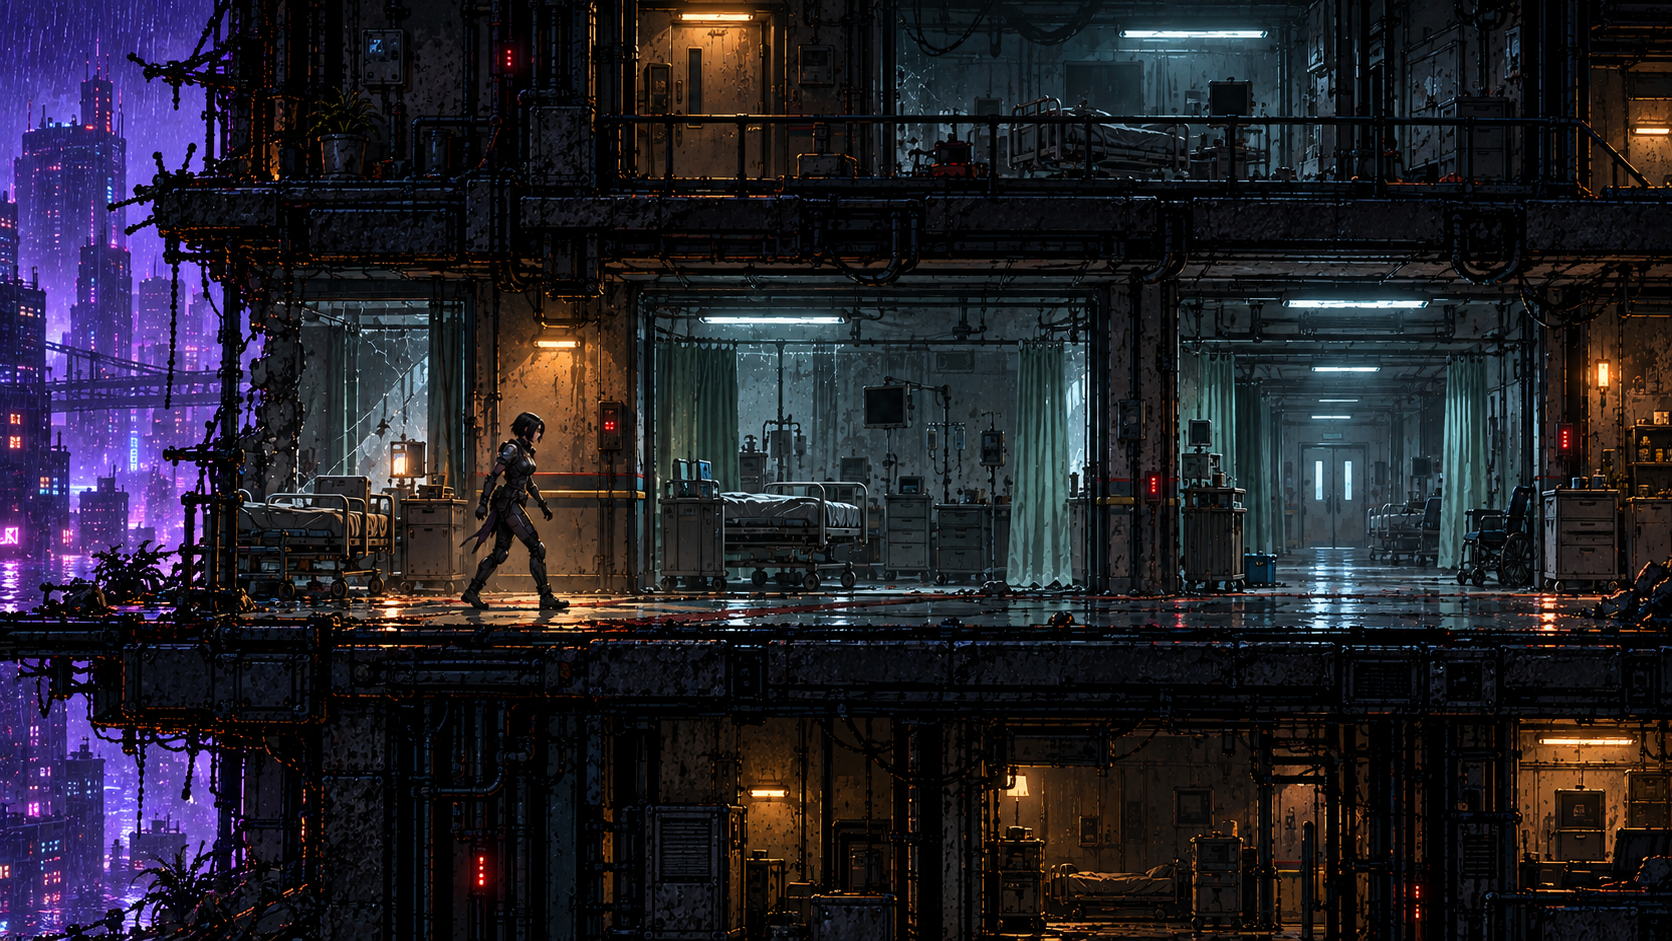
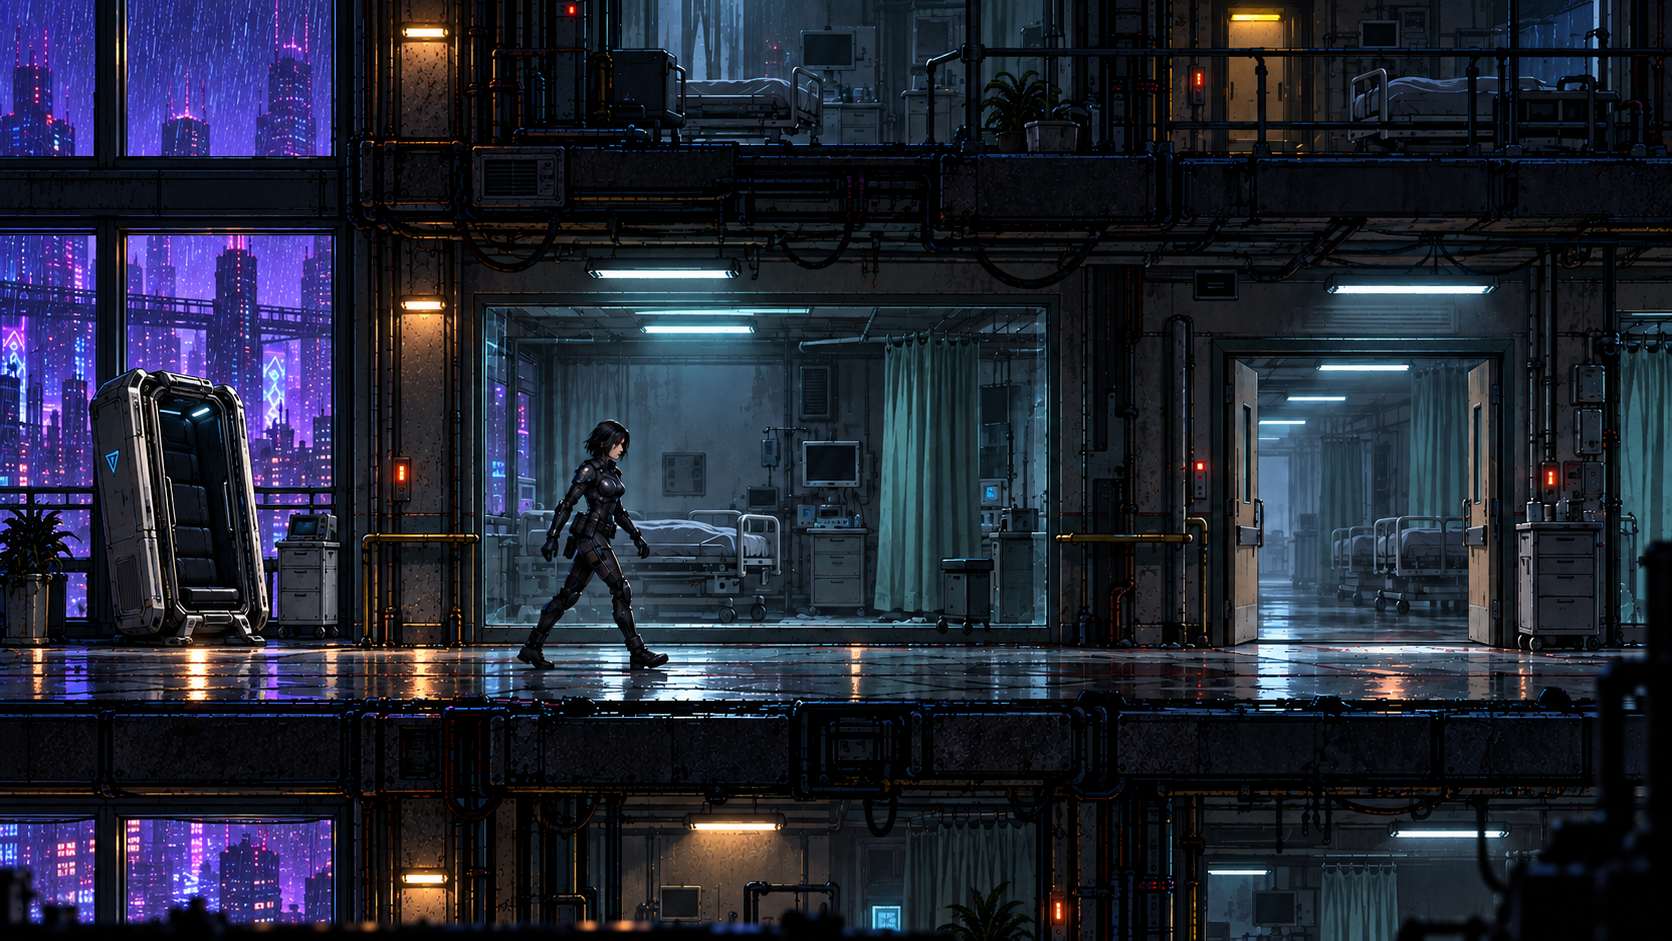
🎨(m02): stage VECTOR arrival inside intact hospital

diff --git a/production/asset-registry.md b/production/asset-registry.md
@@ -19,7 +19,7 @@ The crew sheets and Mission concepts below are review material, **not** approved
 | VIS-02 | [[Enemies/E001|E001 concept image]] | Existing `images/enemies/e001.png`; creation source not recorded here | Reassess silhouette, scale, and style once M01's Enemy behaviour is defined | Provisional image |
 | VIS-03 | [[Enemies/E002|E002 concept image]] | Existing `images/enemies/e002.png`; creation source not recorded here | Reassess silhouette, scale, and style once M01's Enemy behaviour is defined | Provisional image |
 | VIS-05 | [[Missions/M01#mission-visual-reference|M01 security-hold concept]] | Generated from M01 and ROOK/E001/E002 text briefs; ROOK source image was not supplied to generation | ROOK likeness, encounter readability, spatial layout, production feasibility | Review candidate |
-| VIS-08 | [[Characters/Vector#appearance|VECTOR crew sheet and turnaround]] | User-refined crew sheet already in wiki; modelling reference imported from `InprintZero/modeling/model VECTOR.png` | Character silhouette and Specialization variations | Reference candidate |
+| VIS-08 | [[Characters/Vector#appearance|VECTOR crew sheet and turnaround]] | Older crew sheet already in wiki; preferred modelling reference imported from `InprintZero/modeling/model VECTOR.png` | Use turnaround for likeness; crew sheet is outdated for appearance; validate gameplay silhouette and Specialization variations | Reference candidate |
 | VIS-09 | [[Characters/Ram#appearance|RAM crew sheet and turnaround]] | User-refined crew sheet already in wiki; modelling reference imported from `InprintZero/modeling/model RAM.png` | Armoured silhouette and gameplay motion | Reference candidate |
 | VIS-10 | [[Characters/Relay#appearance|RELAY crew sheet and turnaround]] | User-refined crew sheet already in wiki; modelling reference imported from `InprintZero/modeling/RELAY/BEST RELAY.png` | Accepted prosthesis boundary at gameplay scale | Reference candidate |
 | VIS-11 | [[Missions/M02#mission-visual-reference|M02 hospital concept]] | Generated from M02 proposal and VECTOR text description; VECTOR source image was not supplied to generation | Single-Character deployment, hospital readability, route cue, production feasibility | Review candidate |
@@ -27,4 +27,4 @@ The crew sheets and Mission concepts below are review material, **not** approved
 | VIS-13 | [[Design/Art Direction#aspirational-gameplay-references|M01 aspirational mock B]] | User-supplied AI image from `InprintZero/screenshots/ChatGPT Image Aug 6, 2026, 12_10_44 PM.png`; PNG ancillary metadata removed without changing the encoded pixels | Compare gameplay readability and feasibility; generated HUD, labels, and encounter are not approved design | Aspirational reference |
 | VIS-14 | [[Design/Art Direction#aspirational-gameplay-references|M04 aspirational mock]] | User-supplied AI image from `InprintZero/screenshots/ChatGPT Image Aug 6, 2026, 12_10_25 PM.png`; PNG ancillary metadata removed without changing the encoded pixels | Compare foundry action and RAM readability with reviewed M04 layout and production capacity; generated HUD and objectives are not approved design | Aspirational reference |
 | VIS-15 | [[Missions/M01#ashfall-style-study-with-e001-and-e002|M01 Ashfall style study]] | Generated with VIS-13 as style/composition reference, `images/enemies/e001.png` and `images/enemies/e002.png` as bot references, and `images/characters/references/rook-turnaround.png` as ROOK reference; PNG ancillary metadata removed | Compare gameplay-scale silhouettes and feasibility with VIS-05 and M01's aspirational target; pictured count and geometry are not accepted placements | Review candidate |
-| VIS-16 | [[Missions/M02#ashfall-hospital-style-study|M02 Ashfall hospital style study]] | Generated with VIS-15 and VIS-13 as style references, VIS-11 for hospital setting, and `images/characters/references/vector-turnaround.png` for VECTOR; PNG ancillary metadata removed | Compare atmosphere, Character readability, and spatial feasibility against M01 and the reviewed M02 route; pictured elevated access is not approved geometry | Review candidate |
+| VIS-16 | [[Missions/M02#ashfall-hospital-style-study|M02 Ashfall hospital style study]] | Initially generated with VIS-15/VIS-13 style, VIS-11 setting, and `images/characters/references/vector-turnaround.png` for VECTOR; revised using the prior study, VIS-15, and VECTOR's preferred turnaround to improve likeness, replace the broken edge with windows, and stage a Coffin; PNG metadata removed | Compare VECTOR, Coffin staging, windowed hospital and spatial feasibility against reviewed M02 route; depicted arrival and upper floor are not approved placements | Review candidate |

diff --git a/missions/m02.md b/missions/m02.md
@@ -24,6 +24,8 @@ Investigate a sealed hospital, introduce Character selection and Character-owned
 
 > **Accepted — Route shape:** One shared critical path through the hospital is completable by either selected Character. Separate ROOK-only and VECTOR-only optional branches rejoin the shared path before the required neurological evidence. Neither branch is required to complete the Mission, and their contents are not revealed in advance. The Character-specific access verbs are [[Characters/Rook#moves-and-animations|ROOK's Combat Slide]] and [[Characters/Vector#shared-movement|VECTOR's Wall Run]].
 
+> **Accepted — Hospital setting:** M02 occupies a structurally sound part of the tower, not an exposed, collapsed exterior. The city can appear through intact windows as a distant background; lockdown and age need not mean the hospital building is broken open.
+
 > **TODO — Route and encounter validation:** The six-room spine, branch entrances and rejoin point, room purposes, communications, and time targets below are provisional staging for review. Define actual enemy roles and counts, branch contents and rewards, interactions, and dialogue before calling them authored placements. In particular, do not reuse M01's E001/E002 simply because they are the only drafted Enemies. No Imprint or Imprint-derived reward belongs in M02.
 
 ROOK or VECTOR deploys from HUB0 into the sealed hospital. R03's two Character-gated detours are alternatives to the direct R03 → R04 connection; both rejoin before the mandatory R05 evidence. R05's hospital records indicate neurological corruption without naming a cause. The graph owns proposed room order and routes, not literal hospital geometry. See [[Wiki Rules?section=mission-room-graphs|Mission room graphs]] for the shared notation. No enemy or fixed-pickup blocks appear until specific placements have been designed.
@@ -104,7 +106,7 @@ The graph shows provisional targets for the direct shared route. Dialogue overla
 
 ## Mission visual reference
 
-> **TODO — Visual review:** Compare both exploratory hospital scenes with [[Characters/Vector#appearance|VECTOR's visual references]], the [[Missions/M01#ashfall-style-study-with-e001-and-e002|M01 Ashfall style study]], and a reviewed playable layout at gameplay scale. Both depict one possible VECTOR deployment, not simultaneous playable crew members. The upper walkway, medical props, lighting, and Character silhouette are proposals, not accepted geometry, final art direction, route access, or evidence presentation. No enemies, fixed pickups, or Imprints are specified by either scene.
+> **TODO — Visual review:** Compare both exploratory hospital scenes with [[Characters/Vector#appearance|VECTOR's preferred modelling turnaround]], the [[Missions/M01#ashfall-style-study-with-e001-and-e002|M01 Ashfall style study]], and a reviewed playable layout at gameplay scale. Both depict one possible VECTOR deployment, not simultaneous playable crew members. An earlier style attempt's broken exterior was rejected; the revised study instead shows an intact tower with the city beyond windows. Upper levels, medical props, lighting, Coffin staging, and Character likeness remain proposals, not accepted room geometry, final art direction, route access, or evidence presentation. No enemies, fixed pickups, or Imprints are specified by either scene.
 
 ### Earlier hospital concept
 
@@ -112,6 +114,6 @@ The graph shows provisional targets for the direct shared route. Dialogue overla
 
 ### Ashfall hospital style study
 
-![Exploratory side-on M02 isolation ward in the M01 Ashfall style: VECTOR walks alone through a dim hospital with patient bays, an upper level, and a rainy skyline beyond](content/images/missions/m02-ashfall-style-study.png)
+![Exploratory M02 hospital arrival: VECTOR walks away from an open deployment Coffin along an intact ward corridor, with the rainy Ashfall skyline visible through sealed windows](content/images/missions/m02-ashfall-style-study.png)
 
-The new study tests M01's dense side-on treatment in a cooler, quieter hospital setting, using VECTOR's modelling turnaround as the Character reference. Its apparent elevated access is a visual exploration, **not** a resolved R03B route or a shortcut to required evidence.
+The revised study tests M01's dense side-on treatment in a cooler, structurally sound hospital setting, using VECTOR's modelling turnaround as the sole Character likeness reference. The open Coffin at the left tests arrival readability only; its exact M02 position, delivery variant, and control handoff remain to be authored. The upper floor does **not** establish the R03B route or a shortcut to required evidence.

diff --git a/characters/vector.md b/characters/vector.md
@@ -17,11 +17,13 @@ status: in-progress
 
 ## Appearance
 
-![Exploratory VECTOR crew sheet with face study and Ghost, Phase, and Hunter loadout studies](content/images/characters/VECTOR.png)
+![Older exploratory VECTOR crew sheet with face study and Ghost, Phase, and Hunter loadout studies](content/images/characters/VECTOR.png)
 
-![Exploratory VECTOR modelling sheet showing several views of a light-armoured body and a hooded variation](content/images/characters/references/vector-turnaround.png)
+![Current preferred VECTOR modelling reference showing several views of a light-armoured body and a hooded variation](content/images/characters/references/vector-turnaround.png)
 
-These are visual references, not accepted ability lists, measurements, outfits for every Specialization, or production specifications. Compare their lighter silhouette and face/hood options with the Character's accepted movement and Equipment before selecting game-scale art. The sheets do not make camouflage, a cape, or phase effects Character-wide abilities.
+> **Accepted — Reference priority:** The modelling turnaround is the preferred appearance reference for VECTOR. The earlier crew sheet remains for provenance and exploratory comparison but is outdated for likeness; do not use it to override the turnaround or treat its depicted gear and abilities as current.
+
+The modelling sheet is a visual reference, not an accepted ability list, measurements, outfits for every Specialization, or a production specification. Compare its lighter silhouette and face/hood options with the Character's accepted movement and Equipment before selecting game-scale art. Neither sheet makes camouflage, a cape, or phase effects Character-wide abilities.
 
 ## Crew role and voice
 
